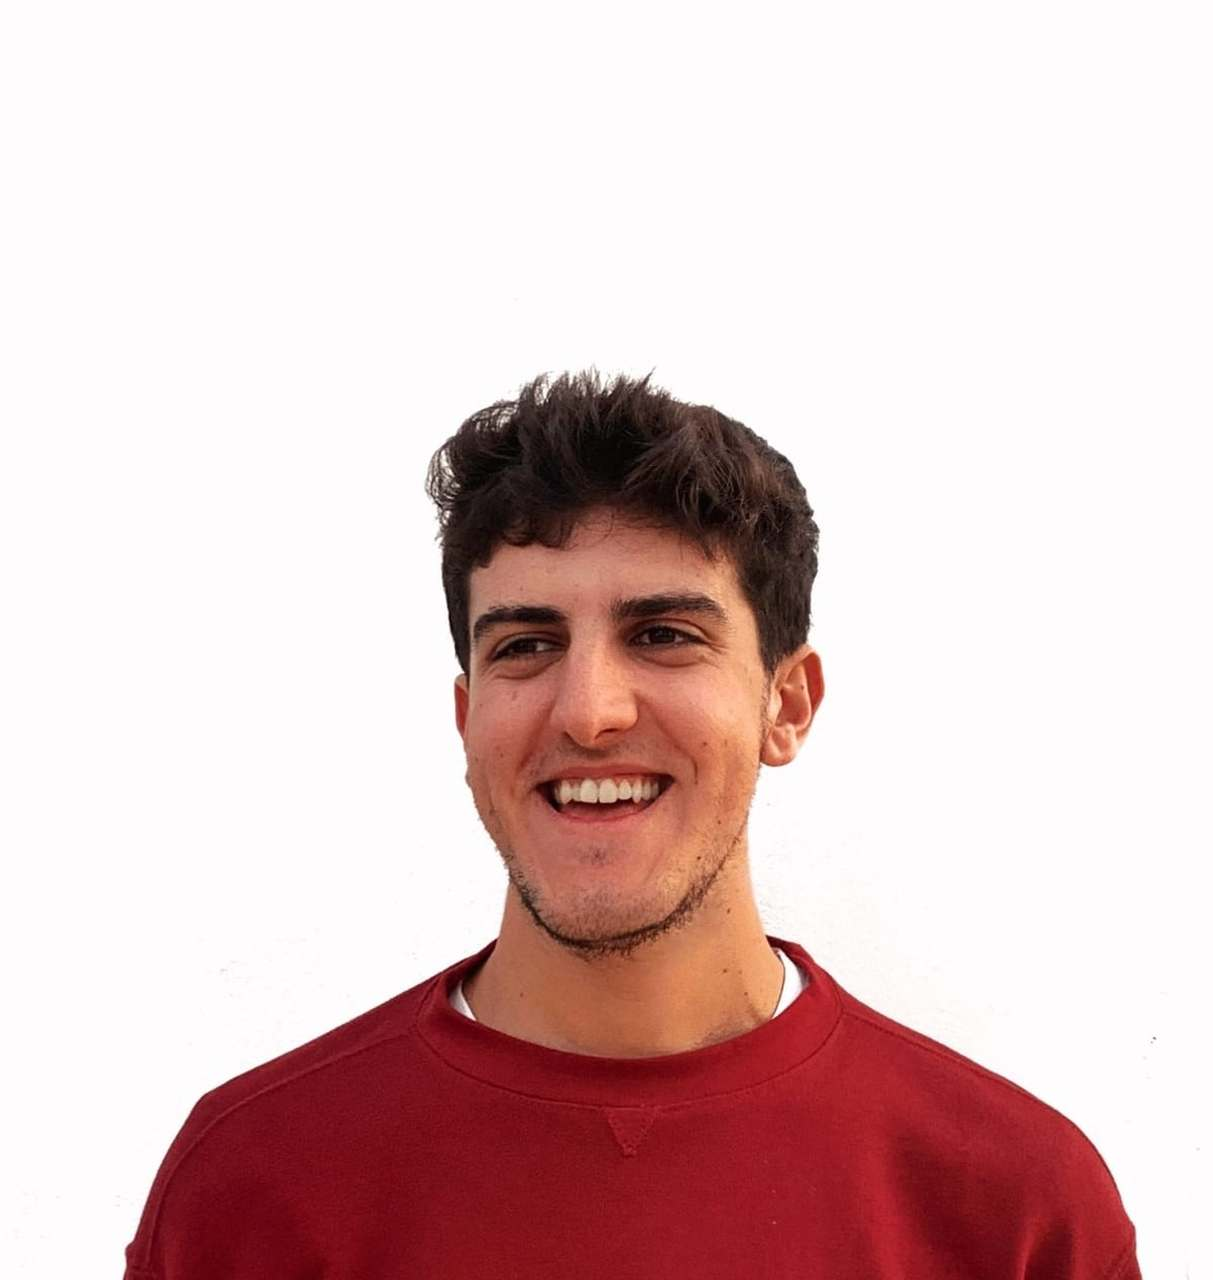
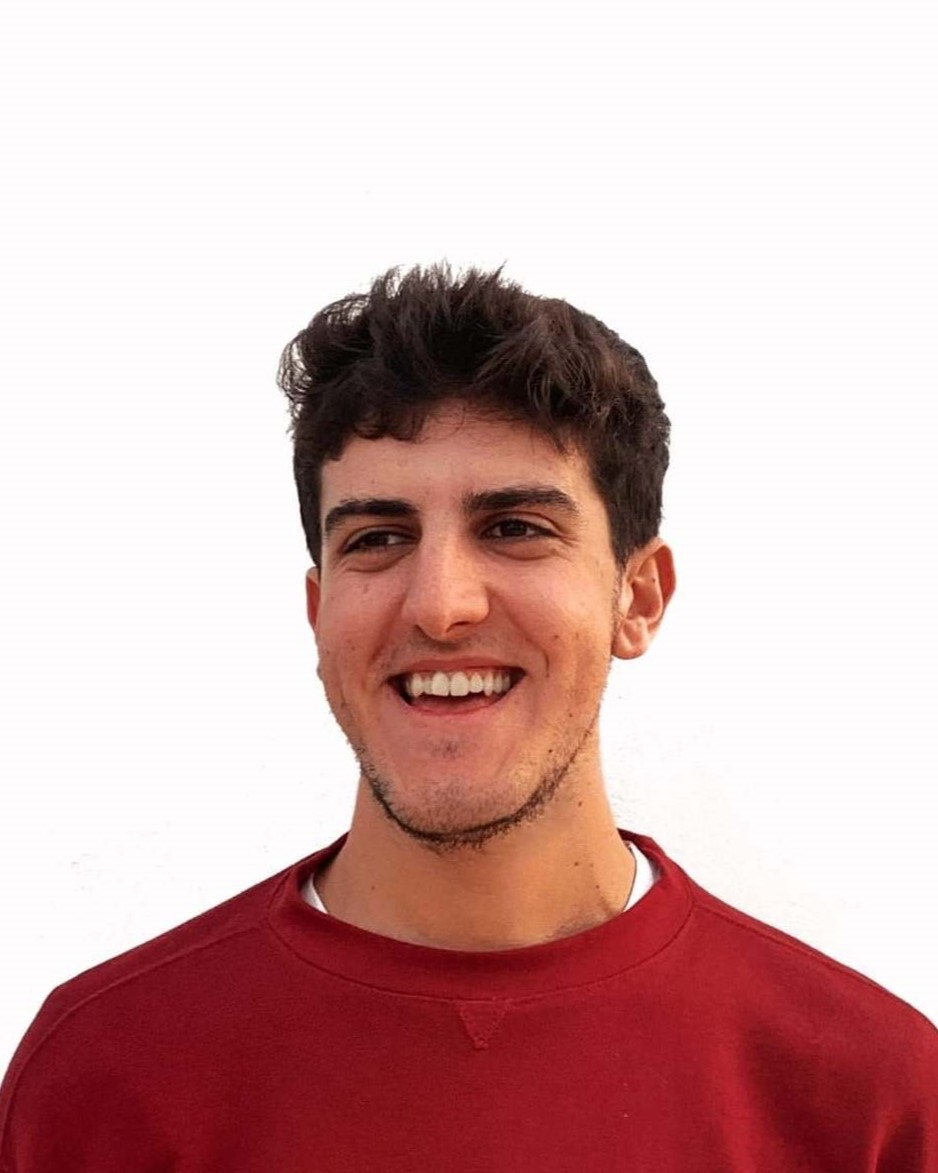
Add new team images

Changed region(s): [[0.0, 0.2148, 1.0, 1.0]]

diff --git a/index.html b/index.html
@@ -137,7 +137,7 @@
         <div id="dev2" class="developer box-container">
 
             <div class="image">
-                <img src="assets/images/Team/dev1.jpg" alt="Ana Conde" />
+                <img src="assets/images/Team/ana.jpg" alt="Ana Conde" />
             </div>
     
             <div class="content">
@@ -290,7 +290,7 @@
                 </div>
                 
                 <div class="image">
-                    <img src="assets/images/Team/dev1.jpg" alt="Iván Moreno" />
+                    <img src="assets/images/Team/ivan.jpg" alt="Iván Moreno" />
                 </div>
 
             </div>
@@ -334,12 +334,12 @@
             <div class="content">
 
                 <h2>Alejandro Sánchez</h2>
-                <p>TODO</p>
+                <p>Me gusta el desarrollo de páginas web y lo relativo al funcionamiento de redes. Mis aficiones son la interpretación, el deporte y pasar tiempo con amigos.</p>
    
                 <div class="team-info">
 
                     <div class="info">
-                        <h4>Destrezas: <span>Desarrollo, Datos</span></h4>
+                        <h4>Destrezas: <span>Backend, Creatividad, Improvisación</span></h4>
                         <h4>Email: <span>alesanmay@alum.us.es</span></h4>
                         
                         <div class="social-icons">
@@ -431,7 +431,7 @@
         <div id="dev11" class="developer box-container">
 
             <div class="image">
-                <img src="assets/images/Team/dev1.jpg" alt="Tomás Camero" />
+                <img src="assets/images/Team/tomas.jpg" alt="Tomás Camero" />
             </div>
     
             <div class="content">
@@ -447,7 +447,6 @@
                         
                         <div class="social-icons">
                             <a href="https://github.com/TomasCB24" class="fab fa-github social"></a>
-                            <a href="https://www.linkedin.com/in/iv%C3%A1n-moreno-granado/" class="fab fa-linkedin-in social"></a>
                         </div>
                     </div>
                     
@@ -494,7 +493,7 @@
         <div id="dev13" class="developer box-container">
 
             <div class="image">
-                <img src="assets/images/Team/dev1.jpg" alt="Juan Salado" />
+                <img src="assets/images/Team/juan.jpg" alt="Juan Salado" />
             </div>
     
             <div class="content">
@@ -566,12 +565,12 @@
             <div class="content">
 
                 <h2>Rafael Sanabria</h2>
-                <p>TODO</p>
+                <p>Hay pocas cosas que no me gusten de la informática. Mis aficiones son el deporte, la música y la lectura.</p>
    
                 <div class="team-info">
 
                     <div class="info">
-                        <h4>Destrezas: <span>Desarrollo, Datos</span></h4>
+                        <h4>Destrezas: <span>Backend, Resolutivo</span></h4>
                         <h4>Email: <span>rafasana9@gmail.com</span></h4>
                         
                         <div class="social-icons">
